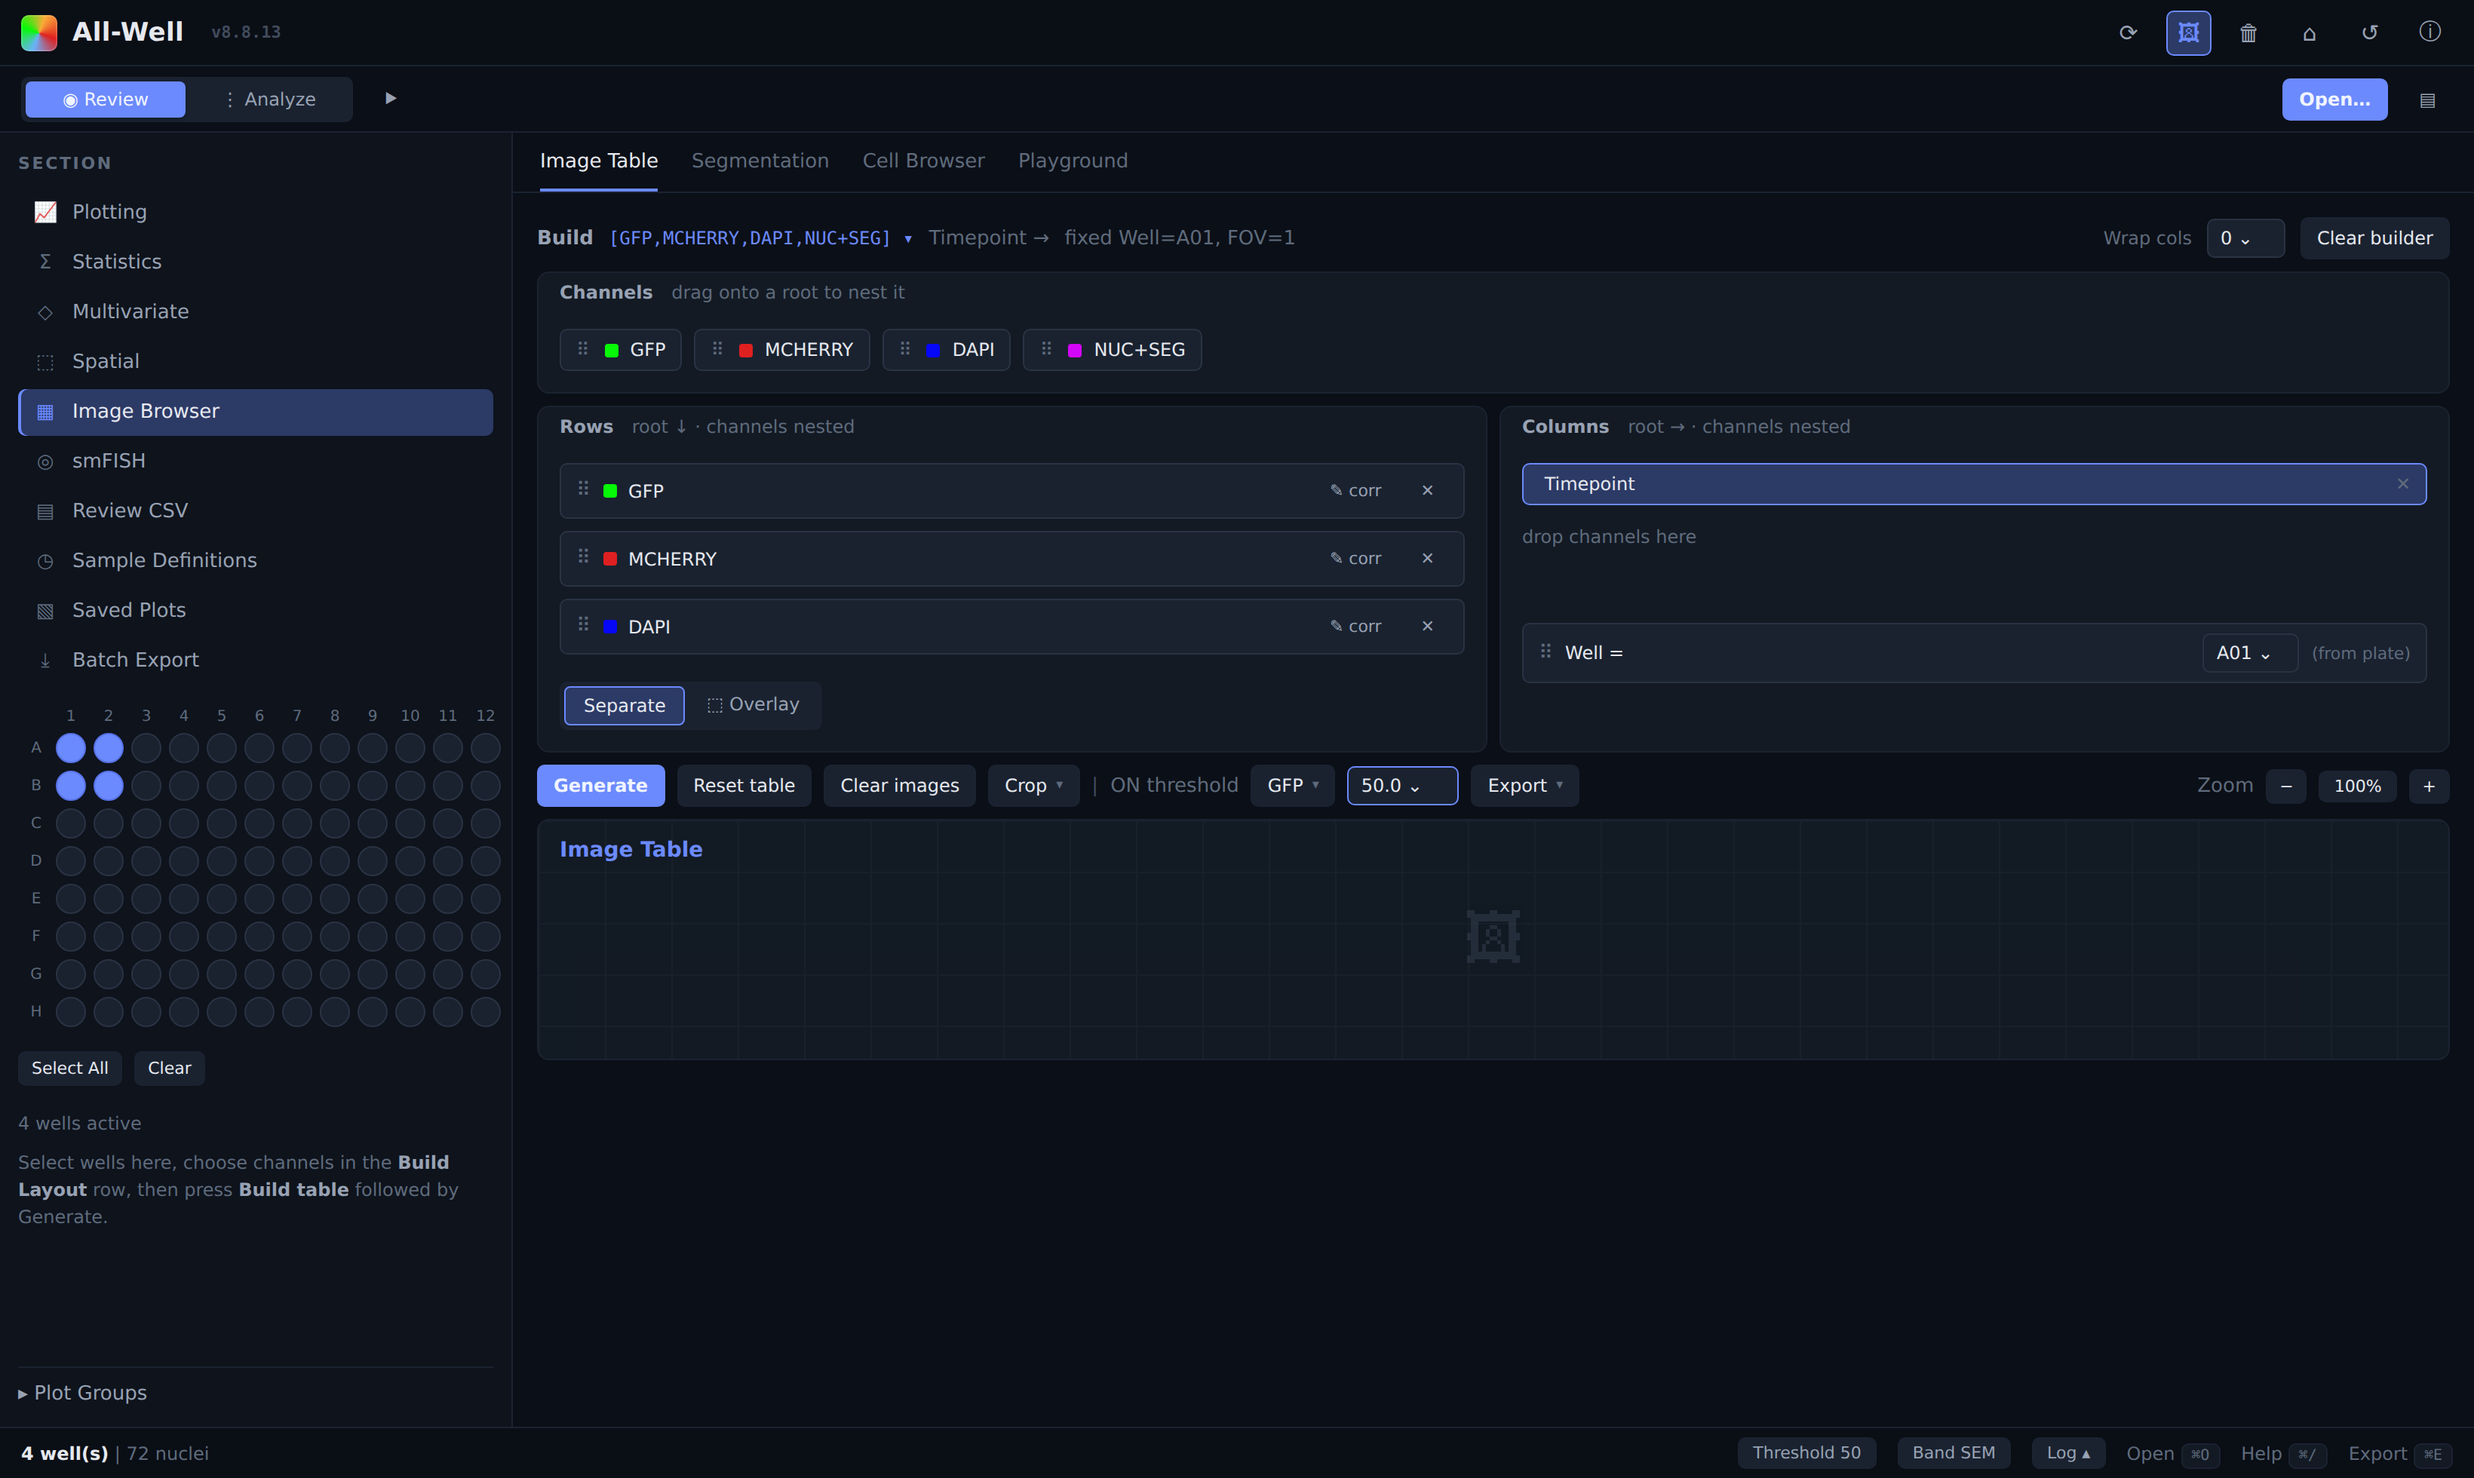
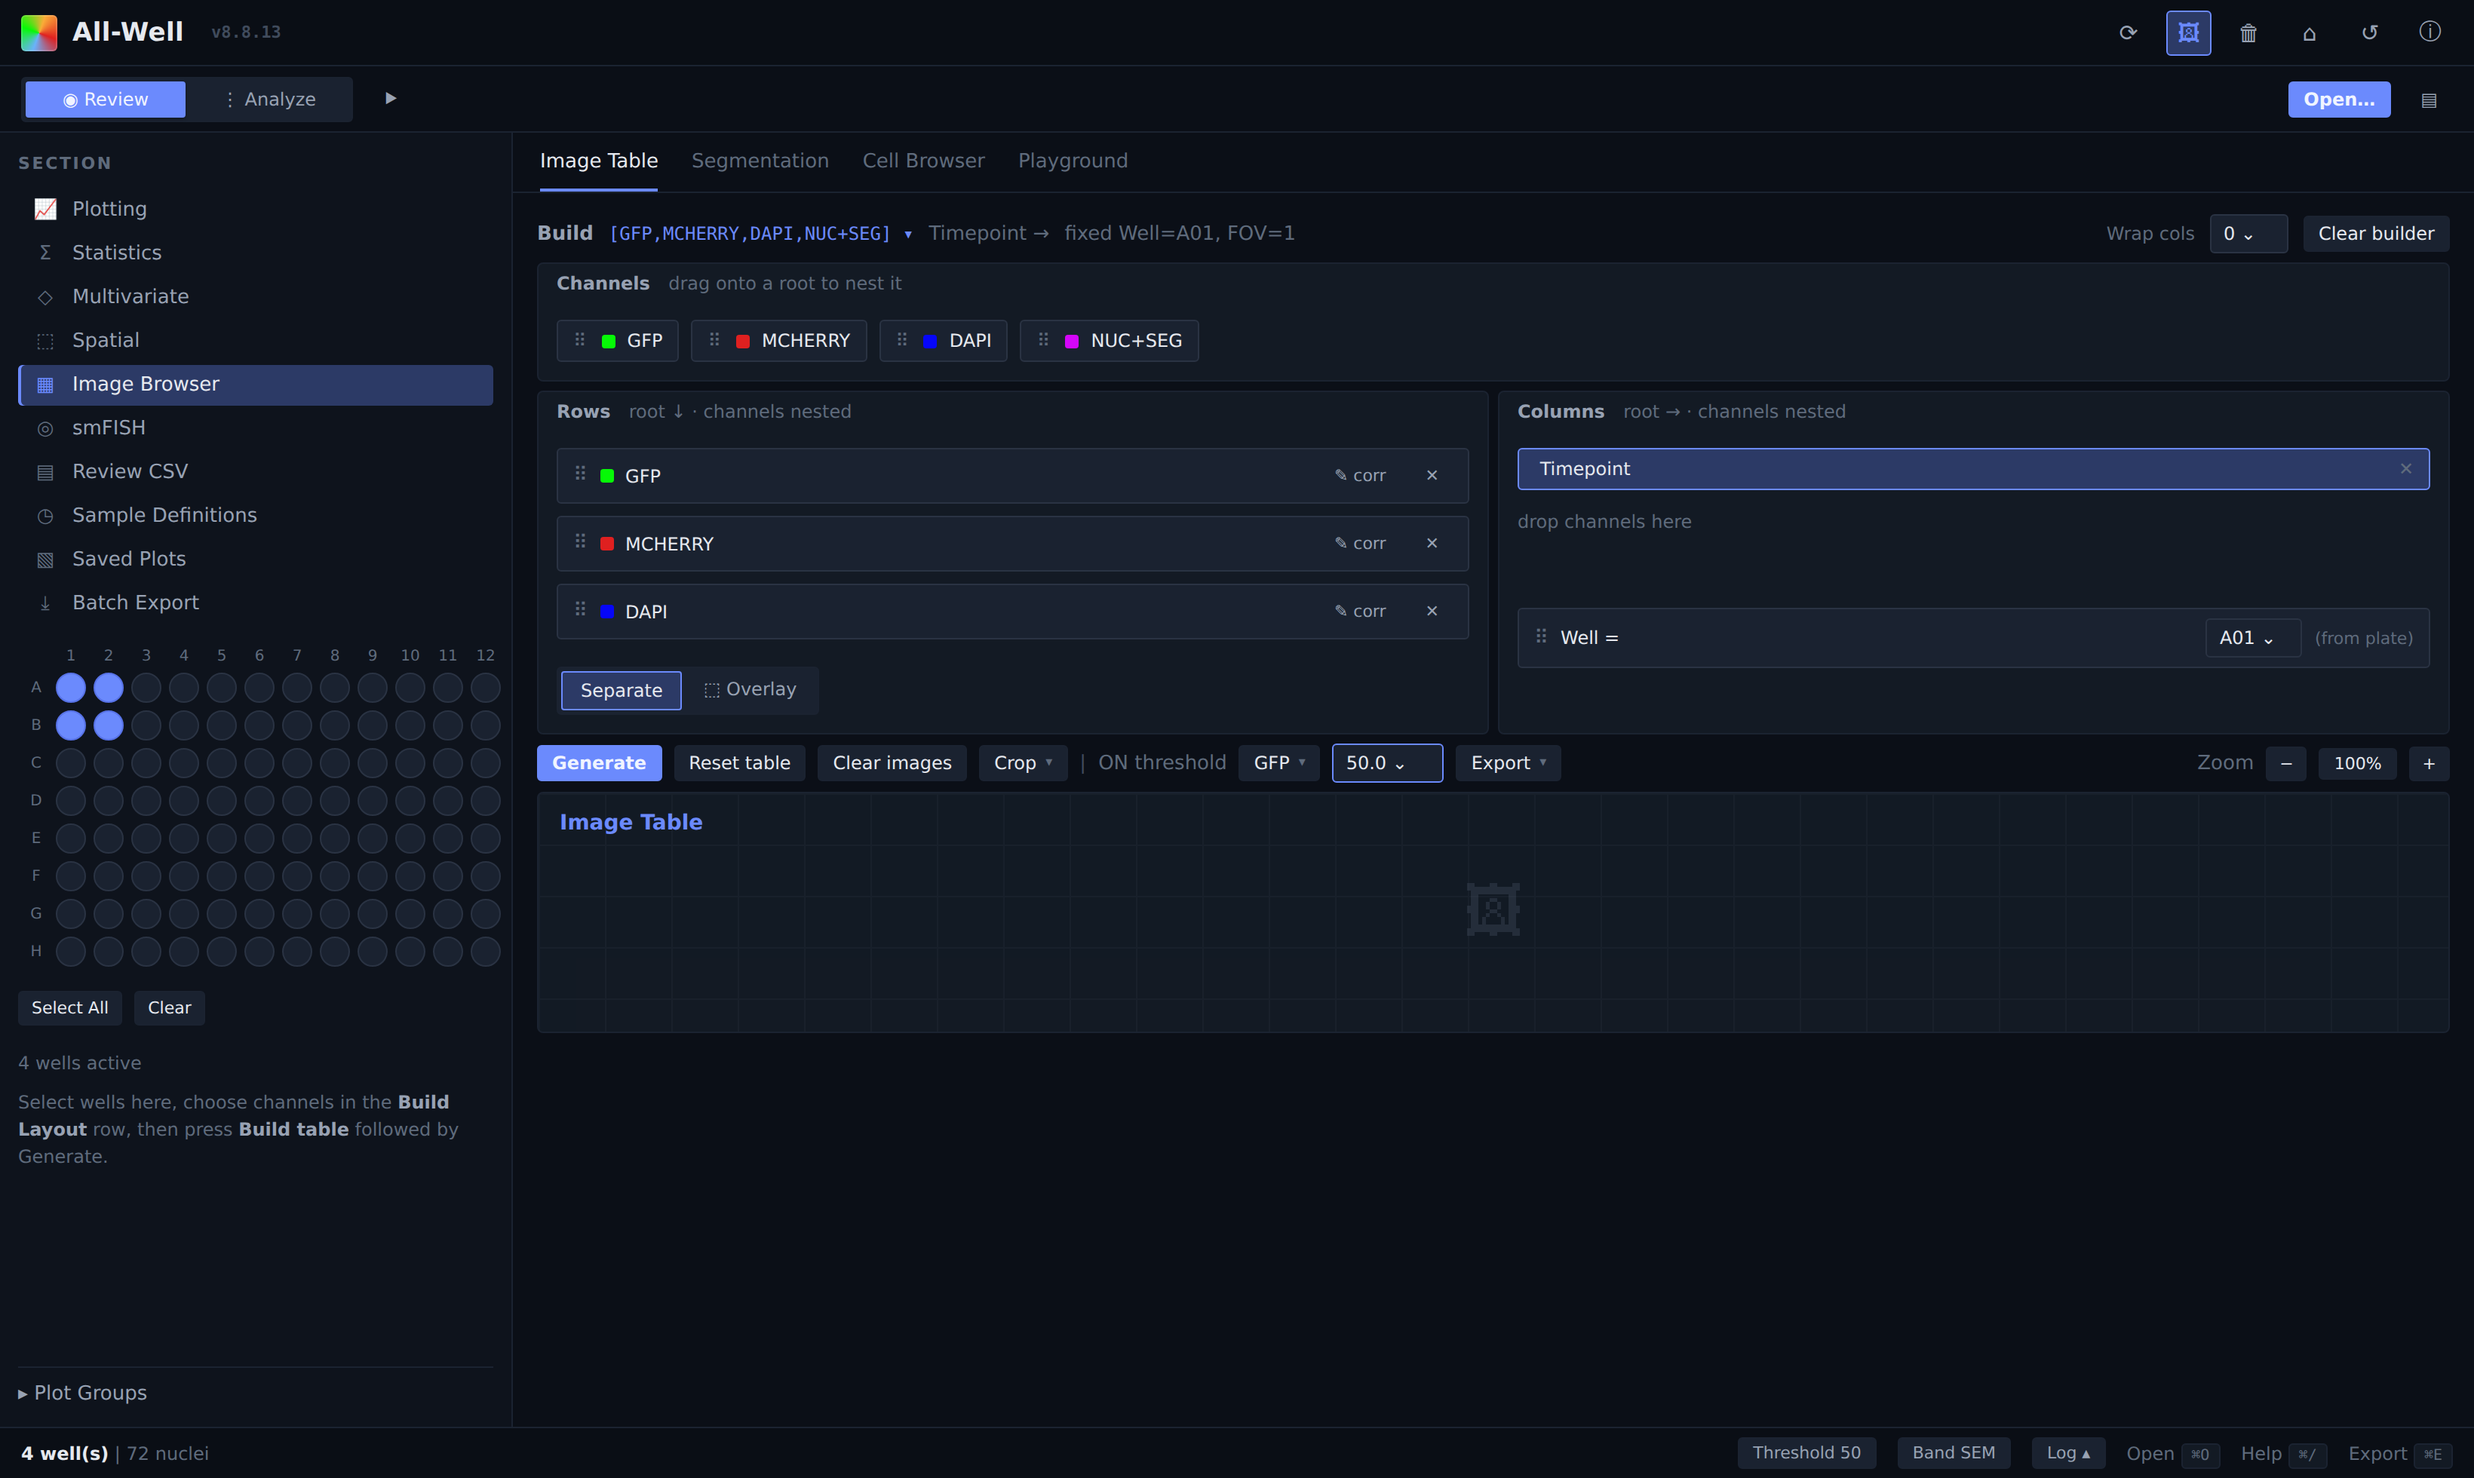
Share flat/tight controls app-wide; rename nikon-elements -> allwell-grey
Two changes:

1) Make the flat, tight control feel the app-wide default. The tightened
   Radii (sm/md/lg = 3/4/6) and Metrics padding (btn 4/9, input 4/8) are now the
   base class defaults, so allwell-dark gets the same button padding and radii as
   the grey theme. The theme bundle no longer overrides Radii/Metrics.

2) Rename the theme nikon-elements -> allwell-grey (colour-only variant sharing
   allwell-dark's Radii/Metrics): the THEMES key, the bundle (_ALLWELL_GREY), the
   ALLWELL_THEME value, docs, comments, the design mockup
   (design/allwell_grey_theme_mockup.html), and the audit renders
   (theme-/real-allwell-grey.png). A brief note keeps the NIS-Elements design
   lineage.

Verified: theme round-trip (dark+grey now share sizes/padding; grey overrides
only Colors); qss() uses the new defaults; architecture/theme/guardrail + app-
smoke tests pass offscreen (28 passed, 1 skipped); real Qt render under
ALLWELL_THEME=allwell-grey confirms.

Claude-Session: https://claude.ai/code/session_01TTAnmHGEFmq5pch3irKB9Z

diff --git a/design/allwell_grey_theme_mockup.html b/design/allwell_grey_theme_mockup.html
@@ -1,8 +1,8 @@
 <!DOCTYPE html>
-<html lang="en" data-theme="nikon-elements">
+<html lang="en" data-theme="allwell-grey">
 <head>
 <meta charset="utf-8">
-<title>All-Well — Nikon Elements theme mockup</title>
+<title>All-Well — All-Well Grey theme mockup</title>
 <style>
 /* ────────────────────────────────────────────────────────────────────────
    Theme-token mockup of the All-Well shell. CSS variables mirror the Qt
@@ -20,18 +20,17 @@
   --brand:transparent; --brand-fg:#404B5C;
   --success:#4ADE80; --warn:#F59E0B; --danger:#F87171;
   --plot-bg:#131A24; --plot-grid:#1F2733; --plot-spine:#3A4658;
-  --radius-sm:5px; --radius-md:8px; --radius-lg:12px;
+  --radius-sm:3px; --radius-md:4px; --radius-lg:6px;
   --btn-border:var(--border-subtle); --btn-border-hover:var(--border);
   --panel-hdr-bg:transparent; --panel-hdr-border:transparent; --input-bg:var(--panel-elevated);
-  --btn-pad-v:6px; --btn-pad-h:10px; --panel-pad:14px; --gap:8px; --nav-pad-v:8px; --content-pad:16px;
+  --btn-pad-v:4px; --btn-pad-h:9px; --panel-pad:12px; --gap:6px; --nav-pad-v:6px; --content-pad:14px;
   --btn-weight:500; --tab-underline:2px;
 }
-/* Nikon NIS-Elements AR — dark variant (APPROVED direction). Neutral charcoal
-   chrome + NIS azure accent (restrained, not the overwhelming gold), with the
-   "more than colour" depth kept: flat near-rectangular hairline-bordered
-   buttons and tighter density. Near-black image canvas; Nikon-yellow reserved
-   for the brand pill only. Dark theme only. */
-:root[data-theme="nikon-elements"] {
+/* All-Well Grey — a colour-only variant: neutral charcoal-grey chrome + azure
+   accent, near-black image canvas, yellow version-pill text. Shares the flat,
+   tight control feel (radii/padding) with allwell-dark. (Designed against real
+   Nikon NIS-Elements AR screenshots.) */
+:root[data-theme="allwell-grey"] {
   --titlebar:#202225; --surface:#1B1D1F; --rail:#26292D; --panel:#2B2E33;
   --panel-elevated:#34383E; --hover:#3E434A; --active:#454B54;
   --border-subtle:#3A3E44; --border:#454A51; --border-strong:#565C64;

diff --git a/theme.py b/theme.py
@@ -66,7 +66,7 @@ class Colors:
     border_strong   = "#3B475C"   # --border-strong : hover/focus ring on inputs
     # Resting border on push/tool buttons. Defaults to the same subtle hairline
     # buttons used before it was split out; a theme can make buttons read as
-    # crisp "toolbar" controls (e.g. Nikon Elements) without also thickening
+    # crisp "toolbar" controls (e.g. All-Well Grey) without also thickening
     # every panel/divider that reads ``border_subtle``.
     control_border  = "#1B2331"   # --control-border : QPushButton / QToolButton edge
 
@@ -86,7 +86,7 @@ class Colors:
     # ── Brand cue (version pill) ─────────────────────────────────────────
     # A small, theme-swappable brand chip. The default palette keeps it a
     # transparent, faint-text pill (visually the pre-existing version label);
-    # a branded theme (e.g. Nikon Elements) can fill it — see ``THEMES``.
+    # a variant theme (e.g. All-Well Grey) can recolour the text — see ``THEMES``.
     brand           = "transparent"  # --brand    : version-pill fill
     brand_fg        = "#404B5C"      # --brand-fg : version-pill text (== text_faint)
 
@@ -210,30 +210,33 @@ class Spacing:
 
 
 class Radii:
-    """Border-radius tokens (DESIGN_TOKENS.md §4)."""
+    """Border-radius tokens (DESIGN_TOKENS.md §4).
+
+    Tightened to a flat, near-rectangular "instrument-panel" feel — the shared
+    default for both bundled themes (``allwell-dark`` and ``allwell-grey``).
+    """
 
     xs   = 3     # --r-xs   : file chip, logo tile, tiny inline indicators
-    sm   = 5     # --r-sm   : buttons, inputs, chips — dominant radius
-    md   = 8     # --r-md   : cards (plot card, plate card, panel sections)
-    lg   = 12    # --r-lg   : floating overlays (toasts, drawers, dialogs)
+    sm   = 3     # --r-sm   : buttons, inputs, chips — dominant radius
+    md   = 4     # --r-md   : cards (plot card, plate card, panel sections)
+    lg   = 6     # --r-lg   : floating overlays (toasts, drawers, dialogs)
     pill = 999   # --r-pill : status dot rings, count badges
 
 
 class Metrics:
     """Control padding tokens (px) — themeable for density.
 
-    Split out from :class:`Spacing` (a pure 4-px layout scale) so a theme can
-    tighten the *inside* of buttons/inputs (a denser, flatter "instrument-panel"
-    control feel) without disturbing the layout gutters. :func:`qss` reads these
-    for the button / tool-button / input / combo paddings; the defaults below
-    reproduce the values those rules used before they were tokenised, so an
-    unthemed build is byte-identical.
+    Split out from :class:`Spacing` (a pure 4-px layout scale) so the *inside* of
+    buttons/inputs can be tightened (a denser, flatter "instrument-panel" control
+    feel) without disturbing the layout gutters. :func:`qss` reads these for the
+    button / tool-button / input / combo paddings. These tightened values are the
+    shared default for both bundled themes (``allwell-dark`` and ``allwell-grey``).
     """
 
-    btn_pad_v    = 6   # QPushButton / QToolButton vertical padding
-    btn_pad_h    = 10  # QPushButton horizontal padding
+    btn_pad_v    = 4   # QPushButton / QToolButton vertical padding
+    btn_pad_h    = 9   # QPushButton horizontal padding
     toolbtn_pad_h = 4  # QToolButton horizontal padding (kept compact)
-    input_pad_v  = 5   # QLineEdit / QSpinBox / QComboBox vertical padding
+    input_pad_v  = 4   # QLineEdit / QSpinBox / QComboBox vertical padding
     input_pad_h  = 8   # …horizontal padding
 
 
@@ -837,12 +840,13 @@ DEFAULT_THEME = "allwell-dark"
 # Classes a theme bundle may override, by name.
 _THEMEABLE_CLASSES = {"Colors": Colors, "Metrics": Metrics, "Radii": Radii}
 
-# Nikon NIS-Elements (dark). Grounded in real NIS-Elements AR screenshots:
-# neutral charcoal chrome, restrained NIS-azure accent, flat near-rectangular
-# hairline-bordered buttons (crisp ``control_border`` + small radii + tighter
-# ``Metrics`` padding), near-black image canvas. Nikon-yellow (#FFE100) is
-# reserved for the brand pill via ``brand`` / ``brand_fg``.
-_NIKON_ELEMENTS = {
+# All-Well Grey: a neutral charcoal-grey chrome variant (colour-only) — restrained
+# azure accent, near-black image canvas, and a yellow version-pill text cue via
+# ``brand_fg``. Shares the flat, tight control feel (``Radii`` / ``Metrics``) with
+# ``allwell-dark``, so this bundle overrides *only* colours. (The look was designed
+# against real Nikon NIS-Elements AR screenshots; the ``control_border`` split lets
+# its buttons read as crisp toolbar controls without thickening panel dividers.)
+_ALLWELL_GREY = {
     "Colors": {
         "titlebar": "#202225", "surface": "#1B1D1F", "rail": "#26292D",
         "panel": "#2B2E33", "panel_elevated": "#34383E", "hover": "#3E434A",
@@ -858,18 +862,14 @@ _NIKON_ELEMENTS = {
         "plot_bg": "#101216", "plot_grid": "#23272E", "plot_spine": "#565C64",
         "focus_ring": "rgba(45, 140, 235, 0.35)",
     },
-    "Metrics": {
-        "btn_pad_v": 4, "btn_pad_h": 9, "toolbtn_pad_h": 4,
-        "input_pad_v": 4, "input_pad_h": 8,
-    },
-    "Radii": {"sm": 3, "md": 4, "lg": 6},
 }
 
 # name → override bundle. ``allwell-dark`` is the built-in default (no overrides;
-# the class values above are its palette).
+# the class values above are its palette). ``allwell-grey`` is a colour-only
+# variant sharing allwell-dark's Radii/Metrics.
 THEMES = {
     DEFAULT_THEME: {},
-    "nikon-elements": _NIKON_ELEMENTS,
+    "allwell-grey": _ALLWELL_GREY,
 }
 
 # Capture the default value of every attribute any theme may touch, so switching

diff --git a/allwell.py b/allwell.py
@@ -221,8 +221,8 @@ class AllWellApp(QMainWindow):
         self._version_pill = QLabel(f"v{_APP_VERSION}")
         self._version_pill.setObjectName("VersionPill")
         # Brand pill. Reads the theme-swappable ``brand`` / ``brand_fg`` tokens:
-        # the default palette makes it a transparent, faint-text label (as
-        # before); a branded theme (Nikon Elements) fills it Nikon-yellow.
+        # the default palette makes it a transparent, faint-text label; the
+        # All-Well Grey theme keeps it transparent with yellow text.
         self._version_pill.setStyleSheet(
             f"background-color: {theme_v2.Colors.brand}; "
             f"color: {theme_v2.Colors.brand_fg}; "

diff --git a/tests/visual/render_views.py b/tests/visual/render_views.py
@@ -57,7 +57,7 @@ def setup_app() -> QApplication:
         QFontDatabase.SystemFont.FixedFont
     ).family()
     # Honour ALLWELL_THEME so the audit can render any registered theme (e.g.
-    # ALLWELL_THEME=nikon-elements) — applied before qss() and before any view
+    # ALLWELL_THEME=allwell-grey) — applied before qss() and before any view
     # is built, exactly as allwell.main() does.
     th.select_theme_from_env()
     app.setStyleSheet(th.qss())

diff --git a/_Docs/Markdowns/ARCHITECTURE.md b/_Docs/Markdowns/ARCHITECTURE.md
@@ -1547,17 +1547,19 @@ per-widget rewiring**.
 
 - `theme.THEMES` maps a name → sparse override bundle. Built-ins:
   `allwell-dark` (the default; the class values are its palette) and
-  `nikon-elements` (neutral charcoal chrome, NIS-azure accent, flat
-  hairline-bordered buttons via `control_border` + small radii + tighter
-  `Metrics` padding, near-black plot canvas; Nikon-yellow reserved for the
-  version pill via `Colors.brand` / `brand_fg`).
+  `allwell-grey` (a **colour-only** variant — neutral charcoal-grey chrome, azure
+  accent, near-black plot canvas, yellow version-pill text via `Colors.brand_fg`).
+  Both share the flat, tight control feel: the `Radii`/`Metrics` defaults
+  (small radii + crisp `control_border` + compact padding) are app-wide, so the
+  `allwell-grey` bundle overrides only `Colors`. (Its look was designed against
+  real Nikon NIS-Elements AR screenshots.)
 - `theme.apply_theme(name)` resets every themeable attribute to its captured
   default, applies the bundle, and fires post-apply hooks
   (`register_theme_hook`). `select_theme_from_env()` reads the **`ALLWELL_THEME`**
   env var (falling back to `allwell-dark` on unset/unknown). `allwell.main()`
   calls it once, before building `AllWellApp`; `--theme <name>` overrides the env
   var. `tests/visual/render_views.py` honours it too, so
-  `ALLWELL_THEME=nikon-elements … render_views.py` audits any theme.
+  `ALLWELL_THEME=allwell-grey … render_views.py` audits any theme.
 - **Startup-only, by design.** There is no in-app live switch — a runtime swap
   would need every cached inline QSS rebuilt on `QEvent.StyleChange` (see the
   per-instance-QSS note below), which hit a ~20 s repaint cascade. Selection is
